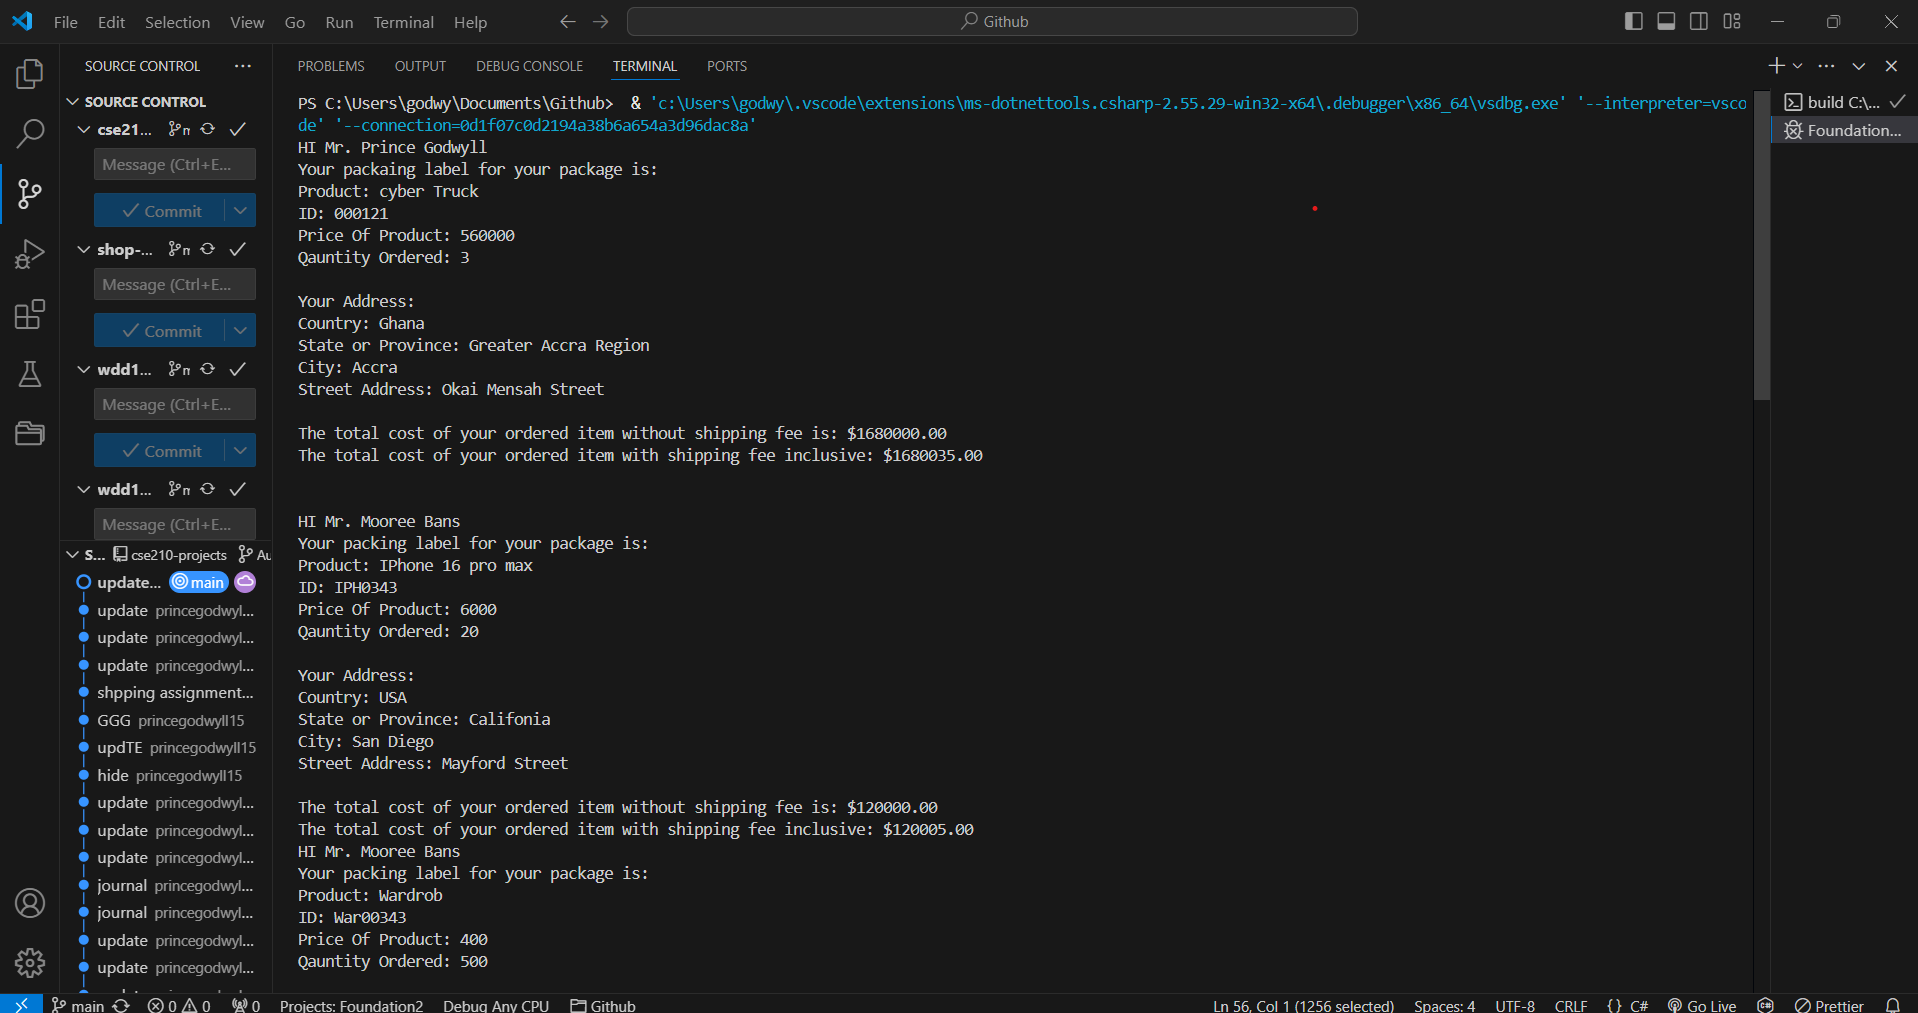
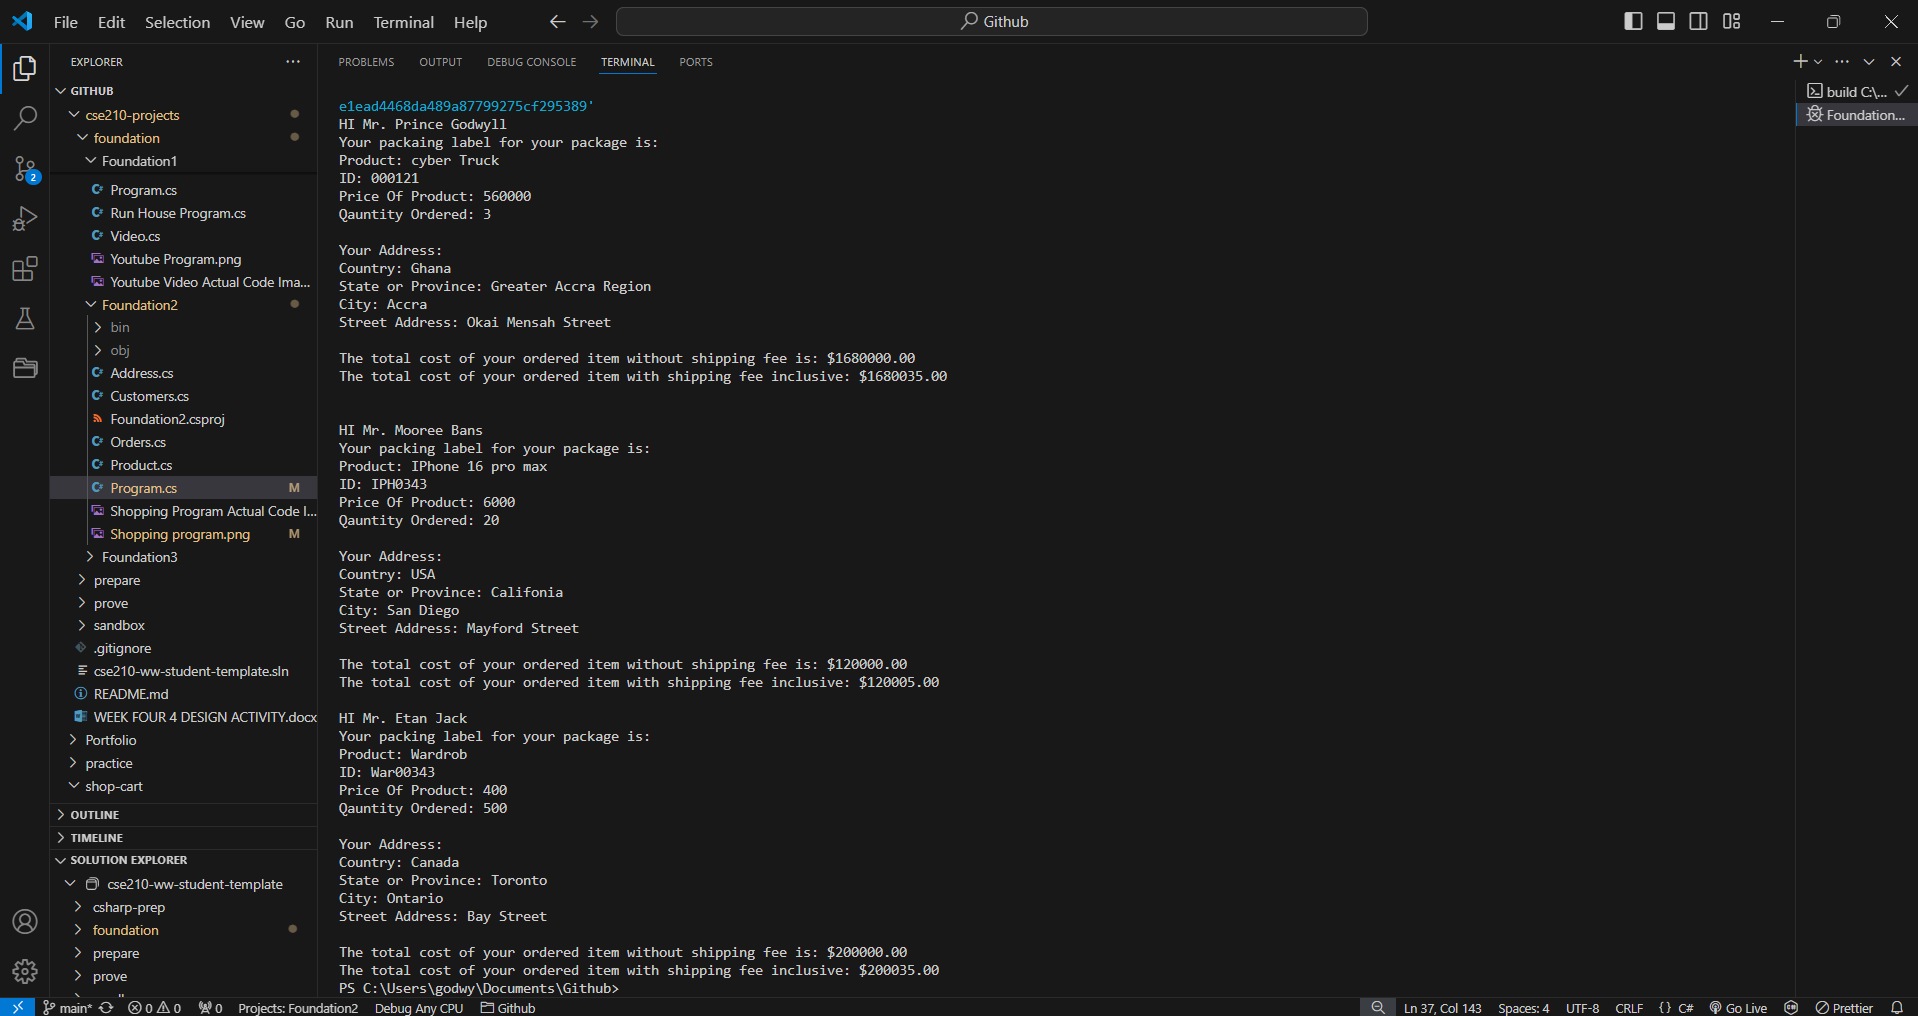
update

diff --git a/foundation/Foundation2/Program.cs b/foundation/Foundation2/Program.cs
@@ -13,7 +13,6 @@ class Program{
         //set the neccssary for the customer instance
         customer.SetCustomerName("Prince Godwyll");
         customer.SetCustomerAddress(address);  
-       
         Console.WriteLine($"HI Mr. {customer.GetCustomerName()}");
 
         //print shipping and packing label to screen
@@ -32,11 +31,10 @@ class Program{
         else{
             int shippingCost =35;
             Console.WriteLine($"The total cost of your ordered item with shipping fee inclusive: ${order.TotalCost() + shippingCost}.00");
-
         }
         Console.WriteLine();
         Console.WriteLine();
-//------------------------------------------------------------------------------------------------------------------------------------------------------------
+//--------------------------------------------------------------------------------------------------------------------------------------------
 
 
         Address address2 = new Address("Mayford Street", "San Diego", "Califonia", "USA");
@@ -63,10 +61,10 @@ class Program{
             Console.WriteLine($"The total cost of your ordered item with shipping fee inclusive: ${order2.TotalCost() + shippingCost}.00");
         }
         else{
-            int shippingCost =35;
+            int shippingCost = 35;
             Console.WriteLine($"The total cost of your ordered item with shipping fee inclusive: ${order2.TotalCost() + shippingCost}.00");
-
         }
+        Console.WriteLine();
 
 //---------------------------------------------------------------------------------------------------------------------------------------------
         Address address3 = new Address("Bay Street", "Ontario", "Toronto", "Canada");
@@ -76,7 +74,7 @@ class Program{
         order3.AddProduct(product3);
 
         //set the neccssary for the customer instance
-        customer3.SetCustomerName("Mooree Bans");
+        customer3.SetCustomerName("Etan Jack");
         customer3.SetCustomerAddress(address3);  
         Console.WriteLine($"HI Mr. {customer3.GetCustomerName()}");
 
@@ -95,7 +93,6 @@ class Program{
         else{
             int shippingCost =35;
             Console.WriteLine($"The total cost of your ordered item with shipping fee inclusive: ${order3.TotalCost() + shippingCost}.00");
-
         }
 
 
